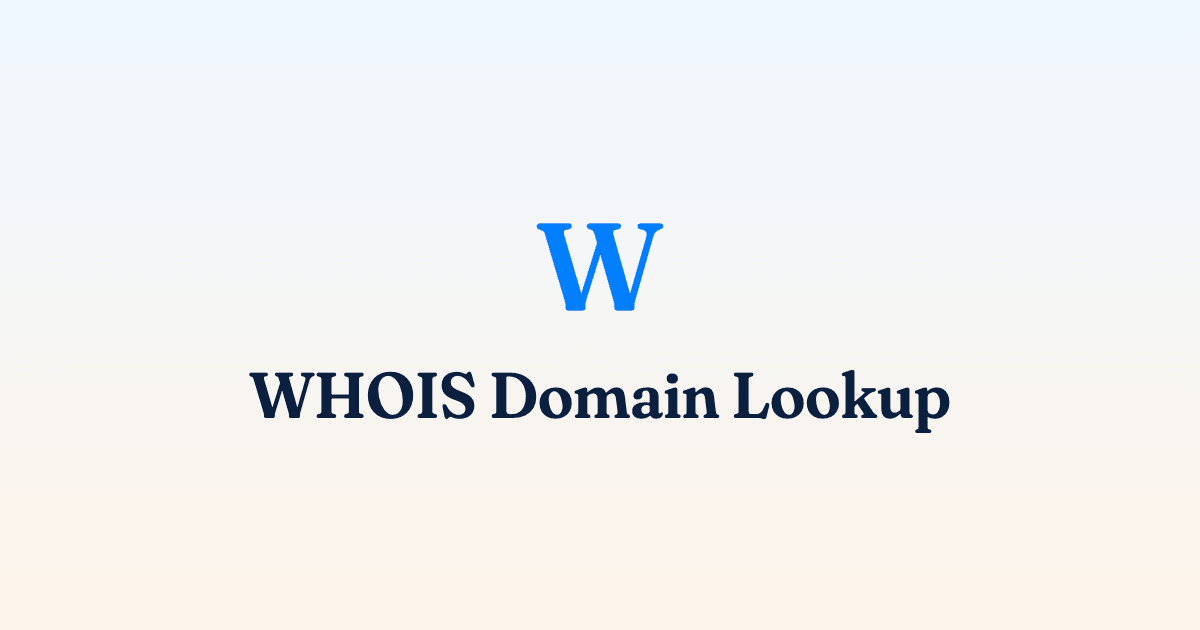
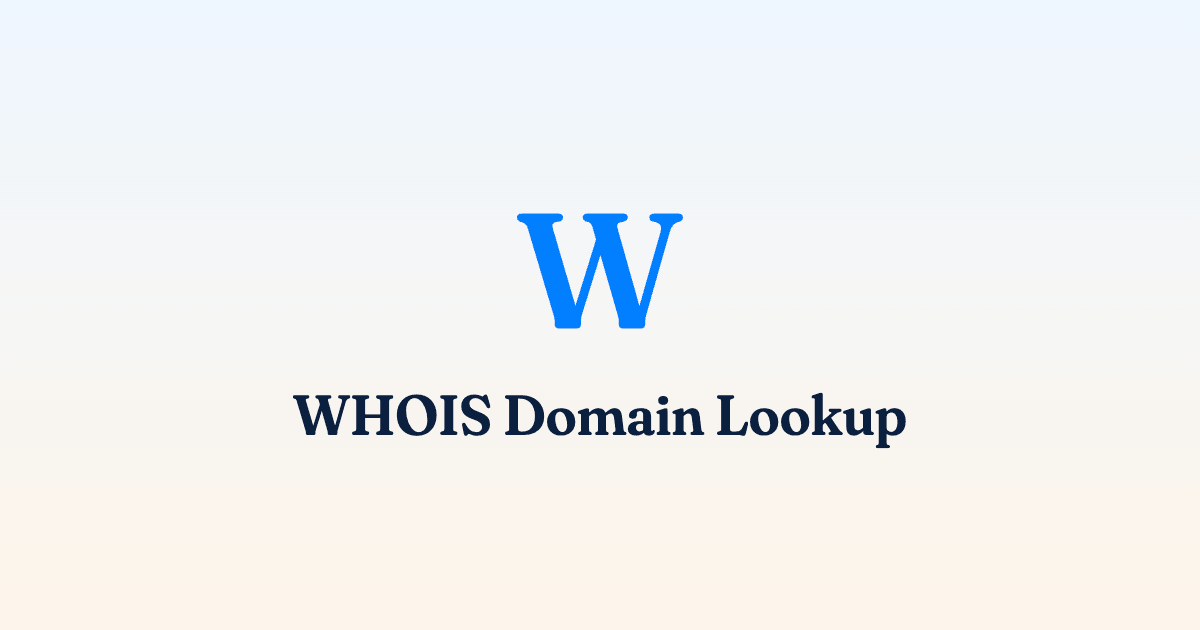
Fix protocol detection and update og image

Changed region(s): [[0.2158, 0.573, 0.8017, 0.7238], [0.4317, 0.3317, 0.5858, 0.5429]]

diff --git a/src/utils.php b/src/utils.php
@@ -1,0 +1,25 @@
+<?php
+function getProtocol()
+{
+  if (!empty($_SERVER["HTTP_X_FORWARDED_PROTO"])) {
+    $values = array_map("strtolower", explode(",", $_SERVER["HTTP_X_FORWARDED_PROTO"]));
+
+    if (in_array("https", $values, true)) {
+      return "https://";
+    }
+  }
+
+  if (!empty($_SERVER["HTTP_FORWARDED"])) {
+    $values = array_map("strtolower", explode(";", $_SERVER["HTTP_FORWARDED"]));
+
+    if (in_array("proto=https", $values, true)) {
+      return "https://";
+    }
+  }
+
+  if (!empty($_SERVER["HTTPS"]) && strtolower($_SERVER["HTTPS"]) !== "off") {
+    return "https://";
+  }
+
+  return "http://";
+}

diff --git a/src/index.php b/src/index.php
@@ -7,6 +7,7 @@ if ($_SERVER["REQUEST_METHOD"] !== "GET") {
 
 require_once __DIR__ . "/../config/config.php";
 require_once __DIR__ . "/../vendor/autoload.php";
+require_once __DIR__ . "/utils.php";
 
 spl_autoload_register(function ($class) {
   if (str_starts_with($class, "Parser")) {
@@ -164,8 +165,7 @@ if ($domain) {
   die;
 }
 
-$protocol = (($_SERVER["HTTPS"] ?? "") && $_SERVER["HTTPS"] !== "off") ? "https://" : "http://";
-$origin = $protocol . $_SERVER["HTTP_HOST"];
+$origin = getProtocol() . $_SERVER["HTTP_HOST"];
 
 $parsedUrl = parse_url($_SERVER["REQUEST_URI"]);
 
@@ -212,6 +212,7 @@ $ogImage = $origin . BASE . "public/images/og.png";
   <meta property="og:title" content="<?= $title; ?>">
   <meta property="og:description" content="<?= SITE_DESCRIPTION; ?>">
   <meta property="og:image" content="<?= $ogImage; ?>">
+  <meta property="og:image:alt" content="<?= SITE_TITLE; ?>">
   <meta property="og:image:width" content="1200">
   <meta property="og:image:height" content="630">
   <meta property="og:site_name" content="<?= SITE_TITLE; ?>">

diff --git a/src/login.php b/src/login.php
@@ -1,5 +1,6 @@
 <?php
 require_once __DIR__ . "/../config/config.php";
+require_once __DIR__ . "/utils.php";
 
 function redirect()
 {
@@ -40,8 +41,7 @@ if ($_SERVER["REQUEST_METHOD"] === "GET") {
   }
 }
 
-$protocol = (($_SERVER["HTTPS"] ?? "") && $_SERVER["HTTPS"] !== "off") ? "https://" : "http://";
-$origin = $protocol . $_SERVER["HTTP_HOST"];
+$origin = getProtocol() . $_SERVER["HTTP_HOST"];
 
 $title = "Sign in | " . SITE_TITLE;
 $ogUrl = $origin . BASE . "login";
@@ -66,6 +66,7 @@ $ogImage = $origin . BASE . "public/images/og.png";
   <meta property="og:title" content="<?= $title; ?>">
   <meta property="og:description" content="<?= SITE_DESCRIPTION; ?>">
   <meta property="og:image" content="<?= $ogImage; ?>">
+  <meta property="og:image:alt" content="<?= SITE_TITLE; ?>">
   <meta property="og:image:width" content="1200">
   <meta property="og:image:height" content="630">
   <meta property="og:site_name" content="<?= SITE_TITLE; ?>">

diff --git a/config/config.php b/config/config.php
@@ -1,5 +1,5 @@
 <?php
-define("VERSION", "v2026.6.3");
+define("VERSION", "v2026.6.6");
 
 define("SITE_TITLE", getenv("SITE_TITLE") ?: "WHOIS Domain Lookup");
 